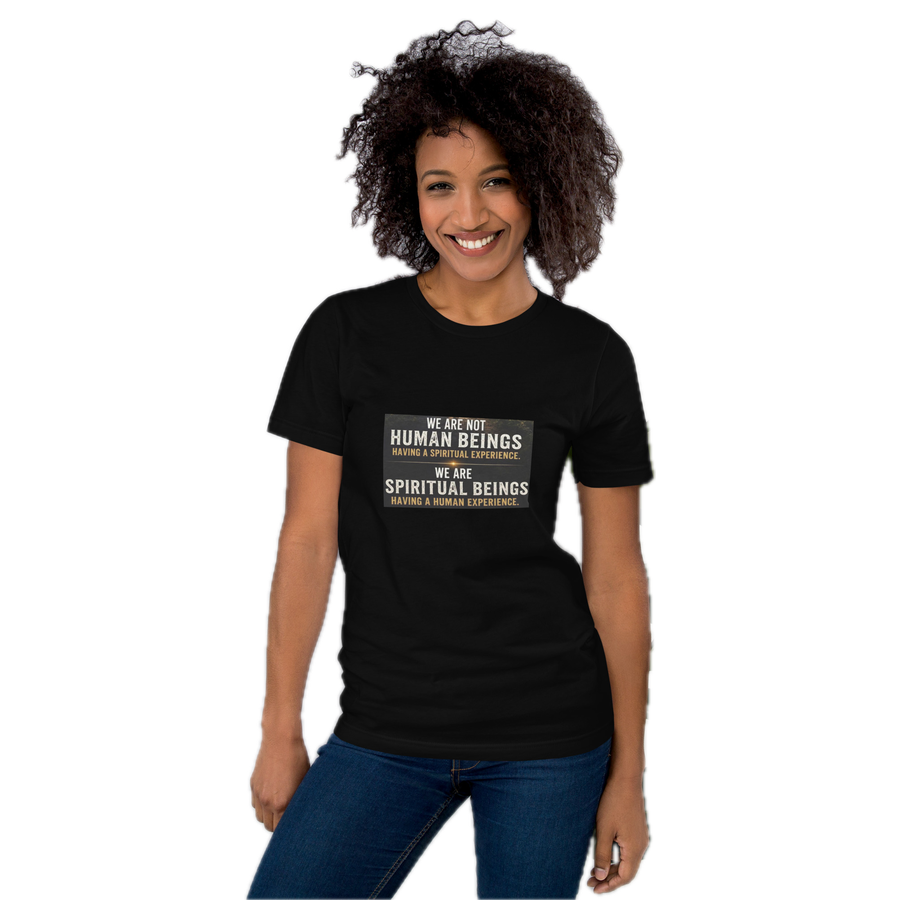
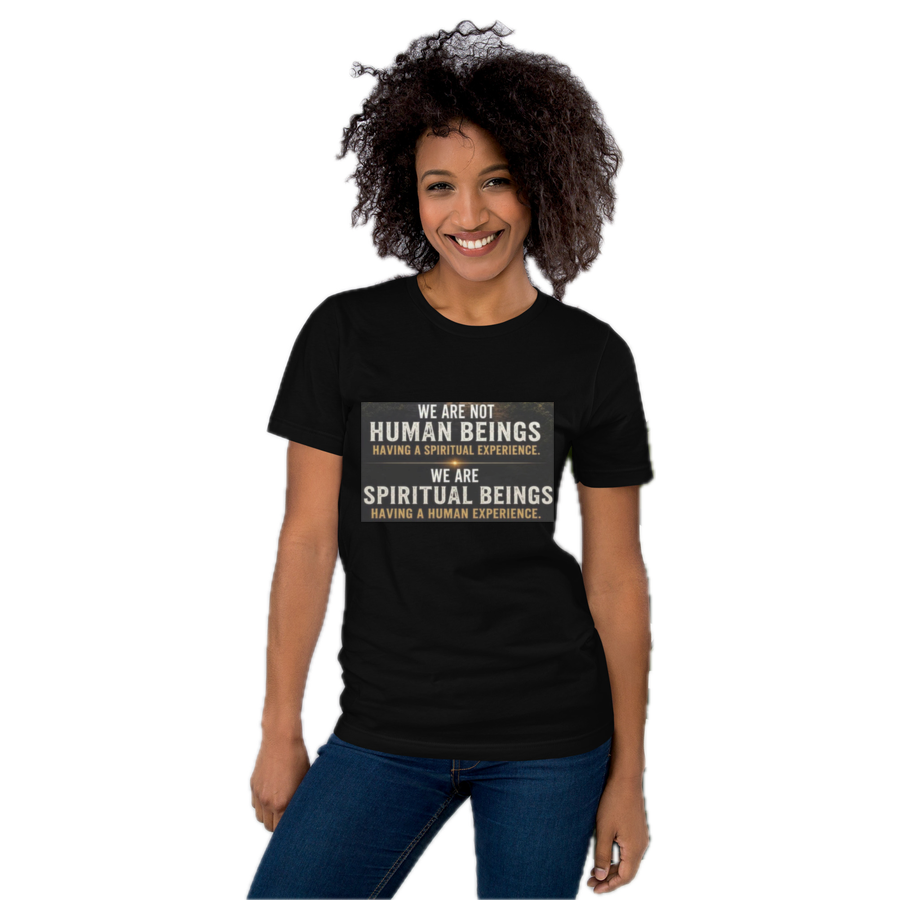
Bold buy/shop buttons and format labels, audiobook $10, larger tee print
Claude-Session: https://claude.ai/code/session_01DJGUprk7X9fiRTMqbdsdPb

Changed region(s): [[0.3733, 0.4356, 0.6222, 0.5911]]

diff --git a/shop.html b/shop.html
@@ -8,7 +8,7 @@
   <link rel="preconnect" href="https://fonts.googleapis.com">
   <link rel="preconnect" href="https://fonts.gstatic.com" crossorigin>
   <link href="https://fonts.googleapis.com/css2?family=Inter:wght@400;500;600;700&display=swap" rel="stylesheet">
-  <link rel="stylesheet" href="css/style.css?v=202611021740">
+  <link rel="stylesheet" href="css/style.css?v=202611021905">
   <link rel="icon" href="favicon.ico?v=1" sizes="any">
   <link rel="icon" type="image/png" sizes="32x32" href="images/favicon-32.png?v=1">
   <link rel="apple-touch-icon" href="images/apple-touch-icon.png?v=1">
@@ -55,7 +55,7 @@
             <p class="kicker">Audiobook</p>
             <h3>Your Body Doesn't Have a Spirit, Your Spirit Has a Body</h3>
             <p class="desc">About 23 minutes. M4B + MP3 chapters.</p>
-            <p class="price">$7</p>
+            <p class="price">$10</p>
             <div class="actions">
               <div class="sample"><p class="sample-label">Listen to a sample</p><audio controls preload="none" src="media/audiobook-sample.mp3?v=202611011405"></audio></div>
               <a href="https://shawnlewisbooks.gumroad.com/l/audiobook" class="btn small">Buy</a>
@@ -86,7 +86,7 @@
         <p class="lede" style="margin-top:12px">We are spiritual beings having a human experience.</p>
         <div class="tiles">
           <div class="tile">
-            <div class="media gallery"><img class="model-img" src="images/tee-model-front.png?v=202611021740" alt="Model wearing the black T-shirt with the print: We are not human beings having a spiritual experience. We are spiritual beings having a human experience."><div class="thumbs"><button type="button" class="thumb active" data-src="images/tee-model-front.png?v=202611021740" aria-label="Front view"><img src="images/tee-model-front.png?v=202611021740" alt=""></button><button type="button" class="thumb" data-src="images/tee-model-side.png?v=202611021740" aria-label="Side view"><img src="images/tee-model-side.png?v=202611021740" alt=""></button></div></div>
+            <div class="media gallery"><img class="model-img" src="images/tee-model-front.png?v=202611021900" alt="Model wearing the black T-shirt with the print: We are not human beings having a spiritual experience. We are spiritual beings having a human experience."><div class="thumbs"><button type="button" class="thumb active" data-src="images/tee-model-front.png?v=202611021900" aria-label="Front view"><img src="images/tee-model-front.png?v=202611021900" alt=""></button><button type="button" class="thumb" data-src="images/tee-model-side.png?v=202611021900" aria-label="Side view"><img src="images/tee-model-side.png?v=202611021900" alt=""></button></div></div>
             <p class="kicker">Apparel</p>
             <h3>T-Shirt</h3>
             <p class="desc">Free shipping within the US.</p>
@@ -94,7 +94,7 @@
             <div class="actions"><label class="sr-only" for="tee-size">Size</label><select class="size-select" id="tee-size" data-buy="tee-buy"><option>S</option><option selected>M</option><option>L</option><option>XL</option><option>2XL</option></select><a href="https://shawnlewisbooks.gumroad.com/l/tshirt?variant=M" class="btn small" id="tee-buy">Buy</a></div>
           </div>
           <div class="tile">
-            <div class="media gallery"><img class="model-img" src="images/hoodie-model-front.png?v=202611021740" alt="Model wearing the black hoodie with the print: We are not human beings having a spiritual experience. We are spiritual beings having a human experience."><div class="thumbs"><button type="button" class="thumb active" data-src="images/hoodie-model-front.png?v=202611021740" aria-label="Front view"><img src="images/hoodie-model-front.png?v=202611021740" alt=""></button><button type="button" class="thumb" data-src="images/hoodie-model-side.png?v=202611021740" aria-label="Side view"><img src="images/hoodie-model-side.png?v=202611021740" alt=""></button></div></div>
+            <div class="media gallery"><img class="model-img" src="images/hoodie-model-front.png?v=202611021900" alt="Model wearing the black hoodie with the print: We are not human beings having a spiritual experience. We are spiritual beings having a human experience."><div class="thumbs"><button type="button" class="thumb active" data-src="images/hoodie-model-front.png?v=202611021900" aria-label="Front view"><img src="images/hoodie-model-front.png?v=202611021900" alt=""></button><button type="button" class="thumb" data-src="images/hoodie-model-side.png?v=202611021900" aria-label="Side view"><img src="images/hoodie-model-side.png?v=202611021900" alt=""></button></div></div>
             <p class="kicker">Apparel</p>
             <h3>Hoodie</h3>
             <p class="desc">Free shipping within the US.</p>
@@ -117,7 +117,7 @@
       </div>
     </div>
   </footer>
-  <script src="js/main.js?v=202611021740"></script>
+  <script src="js/main.js?v=202611021900"></script>
   <script src="https://gumroad.com/js/gumroad.js"></script>
 </body>
 </html>

diff --git a/index.html b/index.html
@@ -8,7 +8,7 @@
   <link rel="preconnect" href="https://fonts.googleapis.com">
   <link rel="preconnect" href="https://fonts.gstatic.com" crossorigin>
   <link href="https://fonts.googleapis.com/css2?family=Inter:wght@400;500;600;700&display=swap" rel="stylesheet">
-  <link rel="stylesheet" href="css/style.css?v=202611021740">
+  <link rel="stylesheet" href="css/style.css?v=202611021905">
   <link rel="icon" href="favicon.ico?v=1" sizes="any">
   <link rel="icon" type="image/png" sizes="32x32" href="images/favicon-32.png?v=1">
   <link rel="apple-touch-icon" href="images/apple-touch-icon.png?v=1">
@@ -77,11 +77,11 @@
             <div class="media"><div class="audio"><img src="images/cover.jpg" alt="Audiobook"><span>Audiobook</span></div></div>
             <p class="kicker">Audiobook</p>
             <h3>Hear it.</h3>
-            <p class="price">$7</p>
+            <p class="price">$10</p>
             <div class="actions"><a href="https://shawnlewisbooks.gumroad.com/l/audiobook" class="btn small">Buy</a></div>
           </div>
           <div class="tile">
-            <div class="media"><img class="model-img" src="images/tee-model-front.png?v=202611021740" alt="Model wearing the black T-shirt with the print: We are not human beings having a spiritual experience. We are spiritual beings having a human experience."></div>
+            <div class="media"><img class="model-img" src="images/tee-model-front.png?v=202611021900" alt="Model wearing the black T-shirt with the print: We are not human beings having a spiritual experience. We are spiritual beings having a human experience."></div>
             <p class="kicker">Apparel</p>
             <h3>Wear it.</h3>
             <p class="price">From $35</p>
@@ -103,7 +103,7 @@
       </div>
     </div>
   </footer>
-  <script src="js/main.js?v=202611021740"></script>
+  <script src="js/main.js?v=202611021900"></script>
   <script src="https://gumroad.com/js/gumroad.js"></script>
 </body>
 </html>

diff --git a/css/style.css b/css/style.css
@@ -60,7 +60,7 @@ h1, h2, h3 { font-weight: 600; letter-spacing: -0.015em; line-height: 1.07; text
 .nav-links a { color: rgba(245, 245, 247, 0.8); font-size: 0.76rem; letter-spacing: 0; transition: color 0.2s; }
 .nav-links a:hover { color: #fff; text-decoration: none; }
 .nav-links a.active { color: #fff; }
-.nav-links a.nav-buy { background: var(--blue); color: #fff; padding: 4px 12px; border-radius: 980px; }
+.nav-links a.nav-buy { background: var(--blue); color: #fff; padding: 4px 12px; border-radius: 980px; font-weight: 700; }
 .nav-toggle { display: none; background: none; border: 0; color: #f5f5f7; font-size: 1.2rem; cursor: pointer; padding: 6px; }
 
 @media (max-width: 760px) {
@@ -87,7 +87,7 @@ h1, h2, h3 { font-weight: 600; letter-spacing: -0.015em; line-height: 1.07; text
   background: var(--blue);
   color: #fff;
   font-size: 1.05rem;
-  font-weight: 400;
+  font-weight: 700;
   padding: 12px 24px;
   border-radius: 980px;
   border: 0;
@@ -160,7 +160,7 @@ h1, h2, h3 { font-weight: 600; letter-spacing: -0.015em; line-height: 1.07; text
 .light .tile { background: var(--white); }
 .tile .media { height: 240px; width: 100%; display: flex; align-items: center; justify-content: center; margin-bottom: 28px; }
 .tile .media img.book { height: 100%; width: auto; border-radius: 3px 7px 7px 3px; box-shadow: 0 16px 30px rgba(0, 0, 0, 0.25); }
-.tile .kicker { font-size: 0.75rem; font-weight: 600; text-transform: uppercase; letter-spacing: 0.08em; color: var(--gold); margin-bottom: 6px; }
+.tile .kicker { font-size: 0.9rem; font-weight: 800; text-transform: uppercase; letter-spacing: 0.08em; color: var(--gold); margin-bottom: 6px; }
 .tile h3 { font-size: 1.5rem; margin-bottom: 6px; }
 .tile .desc { color: var(--gray); font-size: 0.95rem; margin-bottom: 14px; }
 .tile .price { font-size: 1.05rem; margin-bottom: 20px; }

diff --git a/book.html b/book.html
@@ -8,7 +8,7 @@
   <link rel="preconnect" href="https://fonts.googleapis.com">
   <link rel="preconnect" href="https://fonts.gstatic.com" crossorigin>
   <link href="https://fonts.googleapis.com/css2?family=Inter:wght@400;500;600;700&display=swap" rel="stylesheet">
-  <link rel="stylesheet" href="css/style.css?v=202611021740">
+  <link rel="stylesheet" href="css/style.css?v=202611021905">
   <link rel="icon" href="favicon.ico?v=1" sizes="any">
   <link rel="icon" type="image/png" sizes="32x32" href="images/favicon-32.png?v=1">
   <link rel="apple-touch-icon" href="images/apple-touch-icon.png?v=1">
@@ -37,7 +37,7 @@
           <p class="verse">Acts 17:24</p>
           <h1 class="section-title">Your Body Doesn't Have a Spirit, Your Spirit Has a Body.</h1>
           <p style="margin-top:22px">Know who you are, and live who you are.</p>
-          <p class="price-line">E-book $15 &nbsp;&middot;&nbsp; Audiobook $7</p>
+          <p class="price-line">E-book $15 &nbsp;&middot;&nbsp; Audiobook $10</p>
           <p class="soon-line">Paperback coming soon.</p>
           <div class="cta-row">
             <a href="https://shawnlewisbooks.gumroad.com/l/ebook" class="btn">Buy the e-book</a>
@@ -75,7 +75,7 @@
       </div>
     </div>
   </footer>
-  <script src="js/main.js?v=202611021740"></script>
+  <script src="js/main.js?v=202611021900"></script>
   <script src="https://gumroad.com/js/gumroad.js"></script>
 </body>
 </html>

diff --git a/about.html b/about.html
@@ -8,7 +8,7 @@
   <link rel="preconnect" href="https://fonts.googleapis.com">
   <link rel="preconnect" href="https://fonts.gstatic.com" crossorigin>
   <link href="https://fonts.googleapis.com/css2?family=Inter:wght@400;500;600;700&display=swap" rel="stylesheet">
-  <link rel="stylesheet" href="css/style.css?v=202611021740">
+  <link rel="stylesheet" href="css/style.css?v=202611021905">
   <link rel="icon" href="favicon.ico?v=1" sizes="any">
   <link rel="icon" type="image/png" sizes="32x32" href="images/favicon-32.png?v=1">
   <link rel="apple-touch-icon" href="images/apple-touch-icon.png?v=1">
@@ -74,6 +74,6 @@
       </div>
     </div>
   </footer>
-  <script src="js/main.js?v=202611021740"></script>
+  <script src="js/main.js?v=202611021900"></script>
 </body>
 </html>

diff --git a/contact.html b/contact.html
@@ -8,7 +8,7 @@
   <link rel="preconnect" href="https://fonts.googleapis.com">
   <link rel="preconnect" href="https://fonts.gstatic.com" crossorigin>
   <link href="https://fonts.googleapis.com/css2?family=Inter:wght@400;500;600;700&display=swap" rel="stylesheet">
-  <link rel="stylesheet" href="css/style.css?v=202611021740">
+  <link rel="stylesheet" href="css/style.css?v=202611021905">
   <link rel="icon" href="favicon.ico?v=1" sizes="any">
   <link rel="icon" type="image/png" sizes="32x32" href="images/favicon-32.png?v=1">
   <link rel="apple-touch-icon" href="images/apple-touch-icon.png?v=1">
@@ -61,6 +61,6 @@
       </div>
     </div>
   </footer>
-  <script src="js/main.js?v=202611021740"></script>
+  <script src="js/main.js?v=202611021900"></script>
 </body>
 </html>
